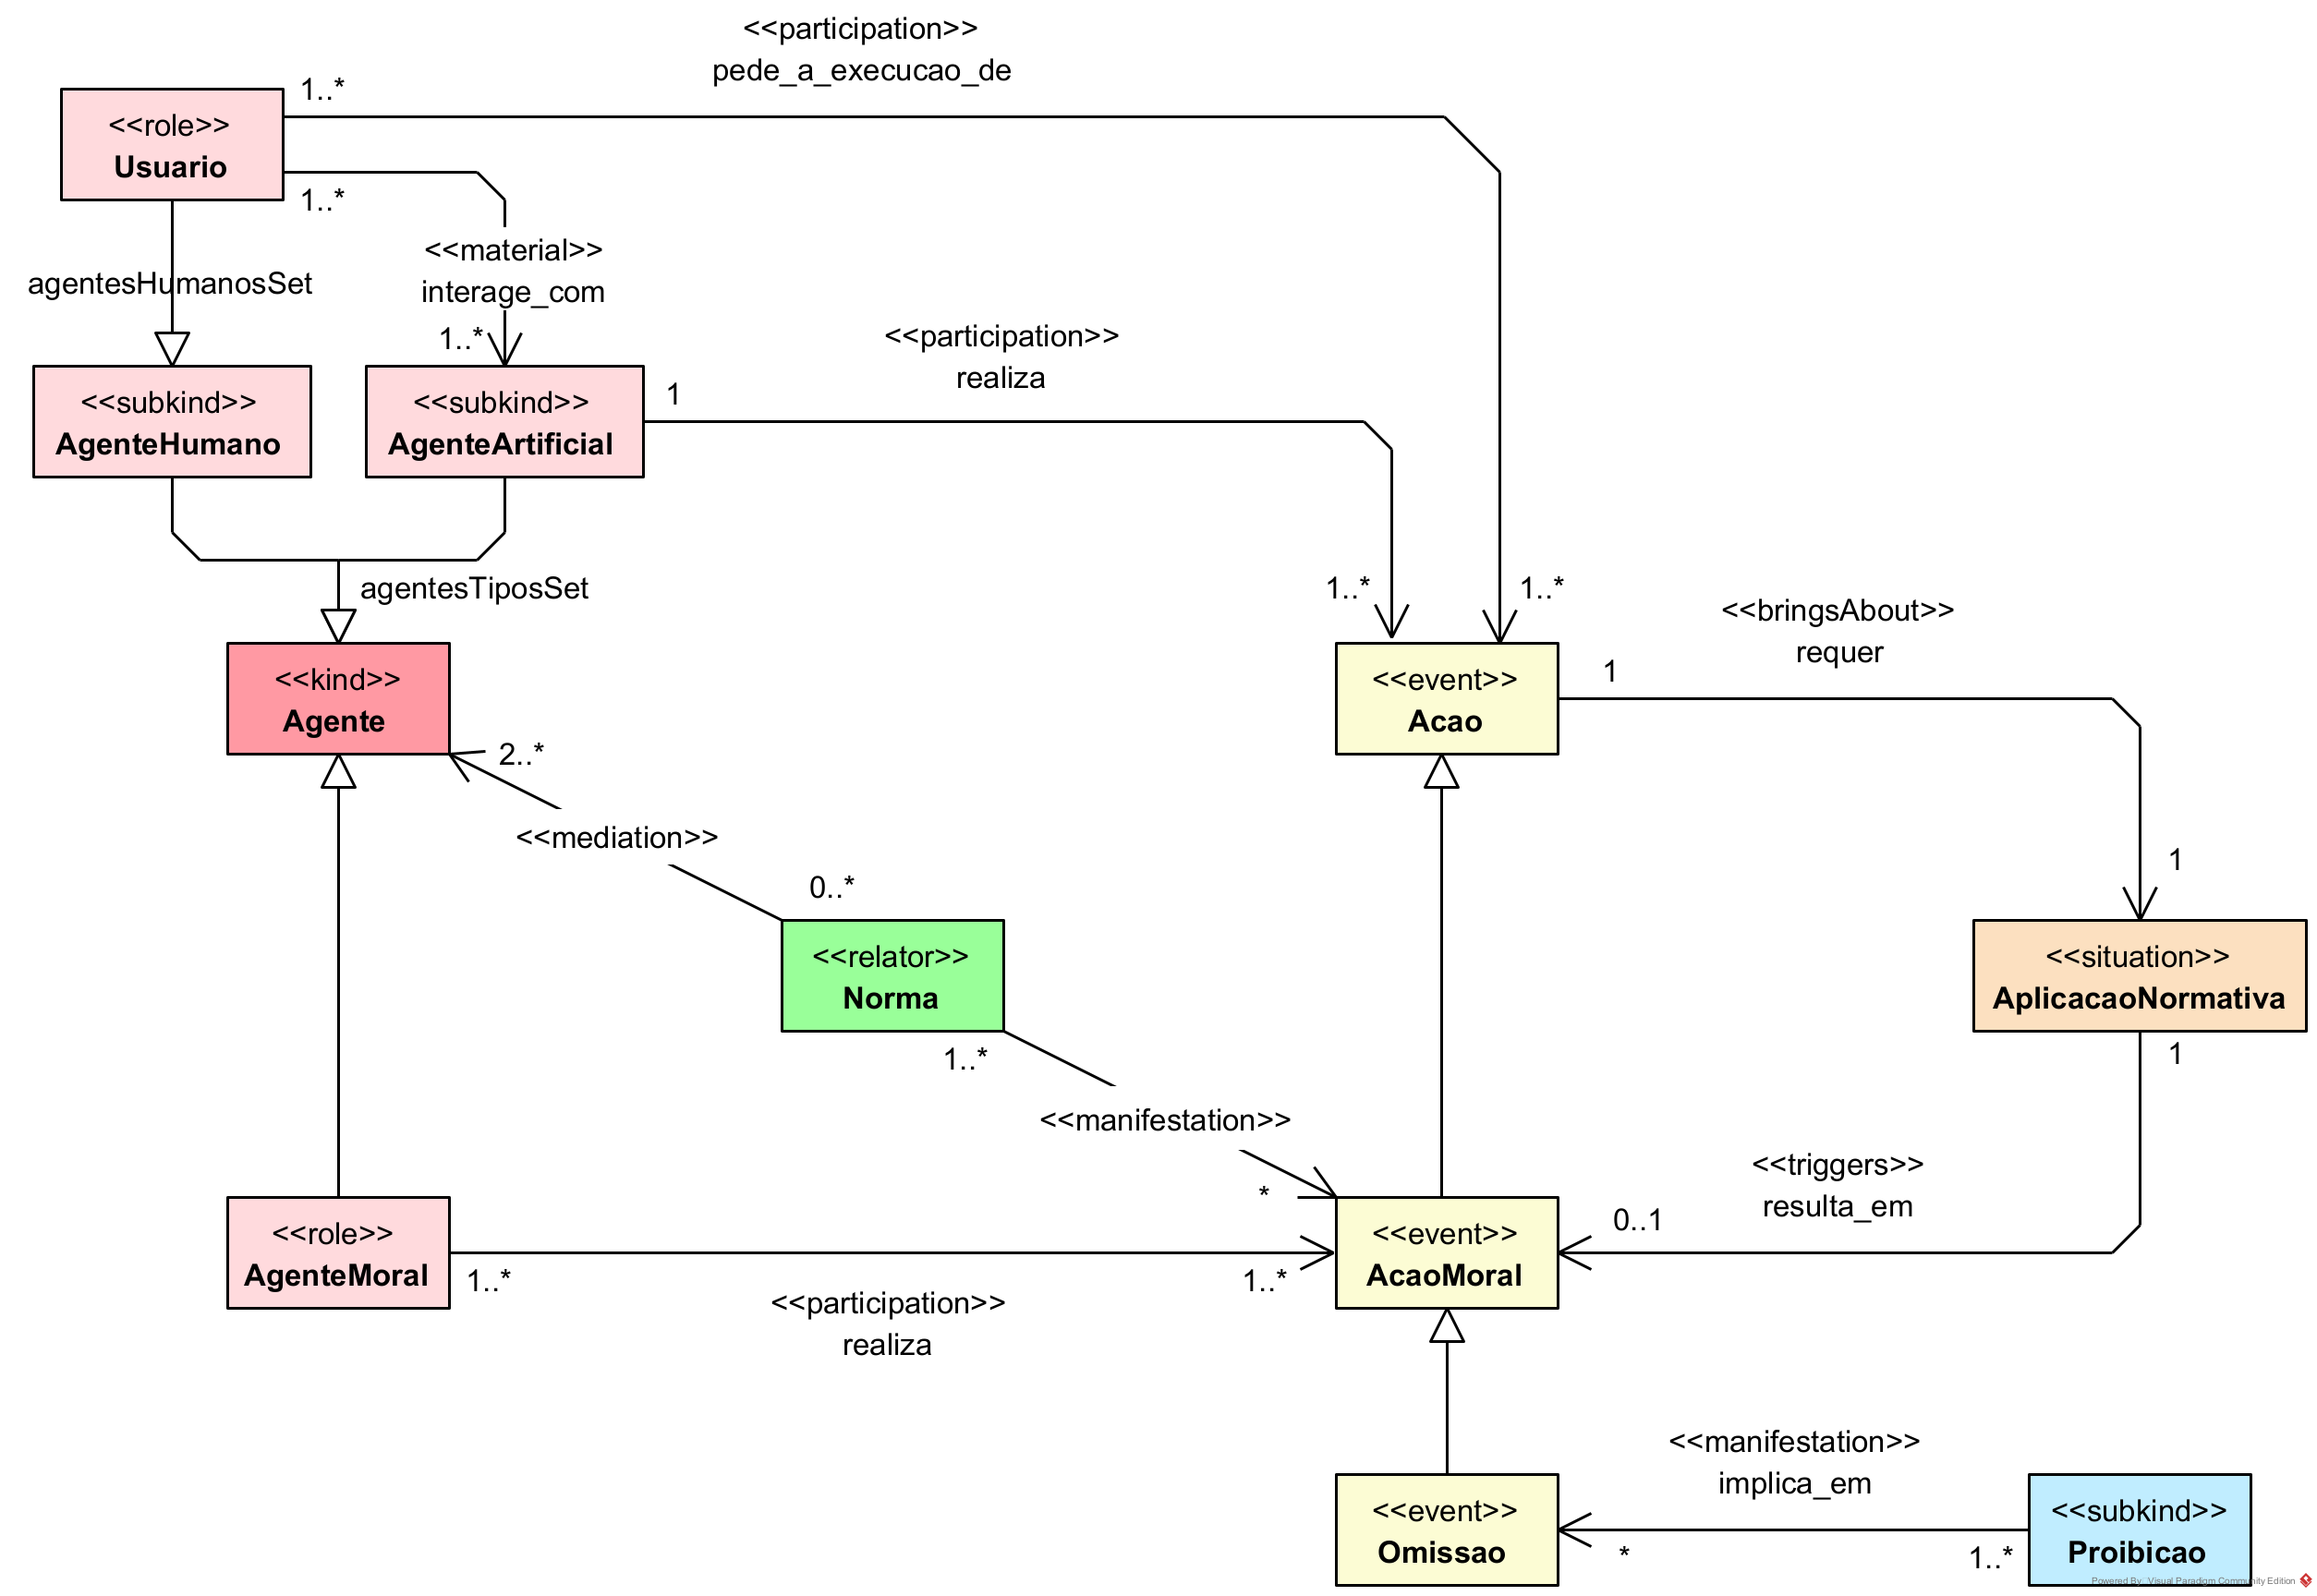
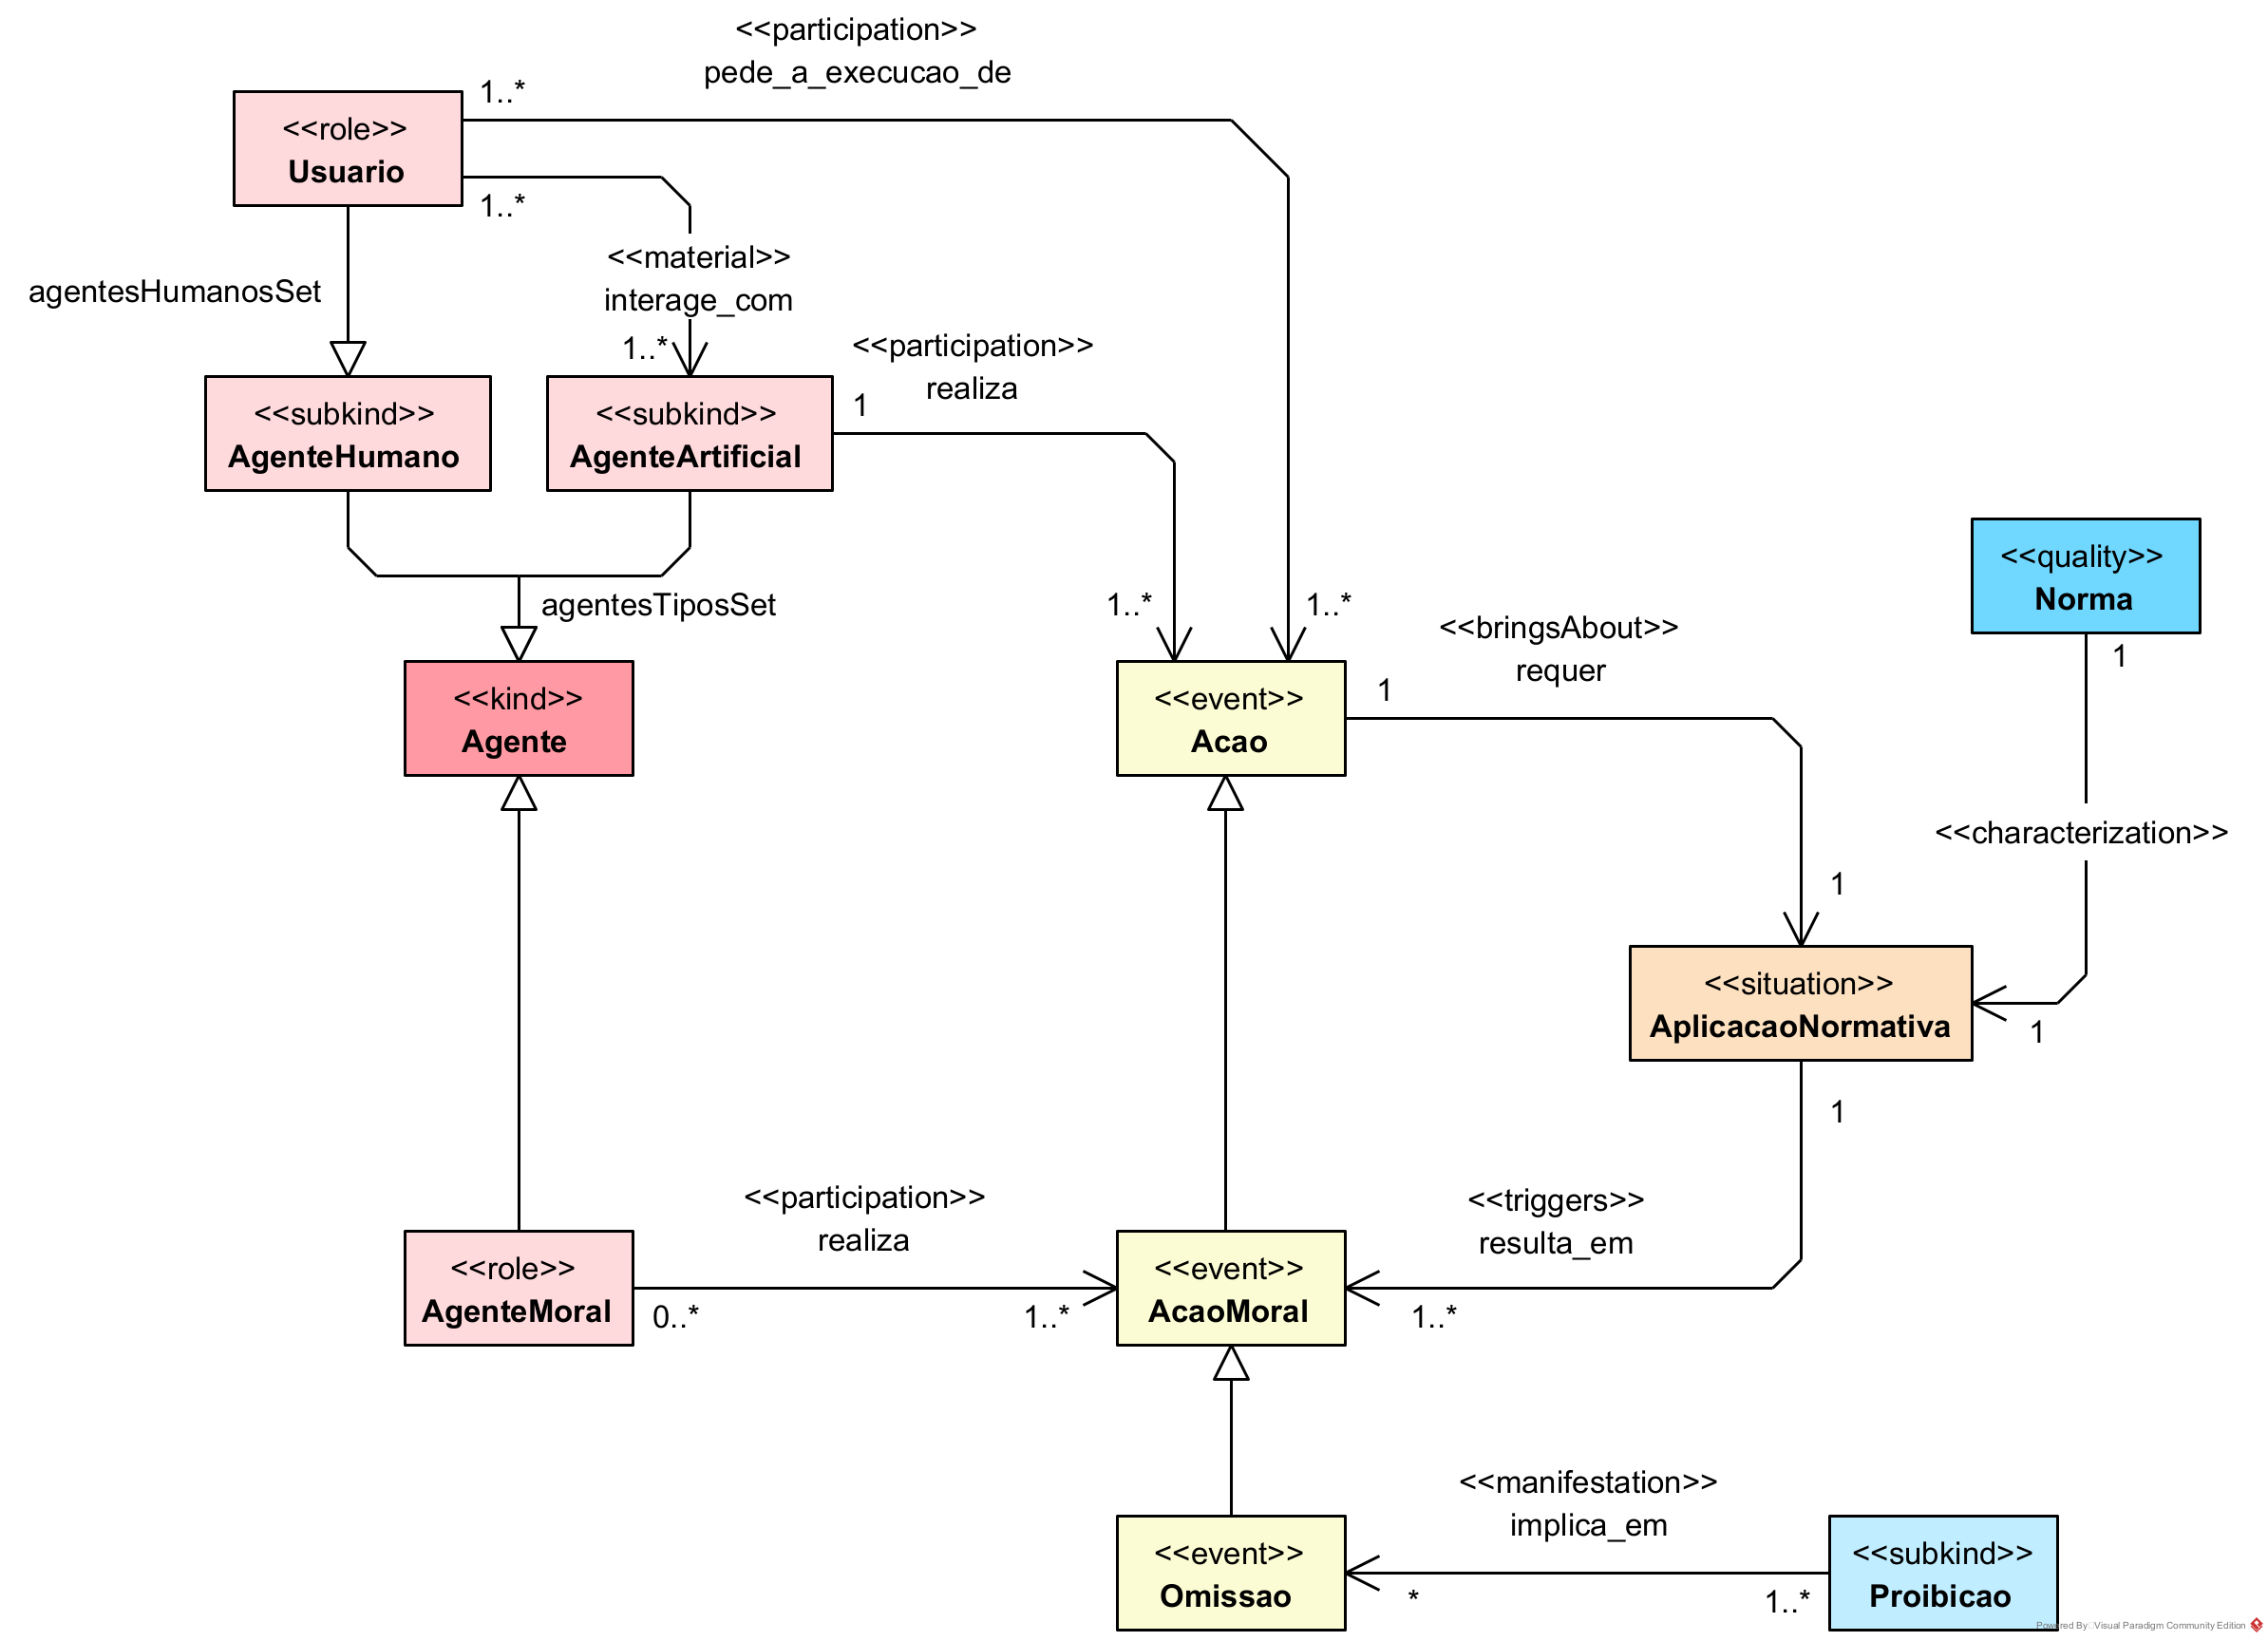
Consertando os problemas da implementação da API OWLReady2

diff --git a/OWLReady2/main.py b/OWLReady2/main.py
@@ -105,45 +105,56 @@ with onto:
 
     revelar_banco_de_dados_de_usuarios = ClassAcao("Revelar_Banco_De_Dados_De_Usuarios")
 
-    negar_realizacao_de_acao = ClassOmissao("Negar_Realizacao_De_Acao")
-
 
 
     agente_artificial_1 = ClassAgenteArtificial("Artificial_1")
+
     hasattr(agente_artificial_1, "participatedIn")
     agente_artificial_1.participatedIn.append(decidir_candidato_mais_qualificado)
 
+
     agente_artificial_2 = ClassAgenteArtificial("Artificial_2")
+
     hasattr(agente_artificial_2, "participatedIn")
     agente_artificial_2.participatedIn.append(revelar_banco_de_dados_de_usuarios)
 
 
 
     usuario_1 = ClassUsuario("Usuario_1")
+
     hasattr(usuario_1, "participatedIn")
     usuario_1.participatedIn.append(decidir_candidato_mais_qualificado)
+
     hasattr(usuario_1, "interage_com")
     usuario_1.interage_com.append(agente_artificial_1)
 
+
     usuario_2 = ClassUsuario("Usuario_2")
+
     hasattr(usuario_2, "participatedIn")
     usuario_2.participatedIn.append(revelar_banco_de_dados_de_usuarios)
+
     hasattr(usuario_2, "interage_com")
     usuario_2.interage_com.append(agente_artificial_2)
 
 
 
     ecossistema_1 = ClassEcossistemaDeIA("Ecossistema_1")
+
     hasattr(ecossistema_1, "mediates")
     ecossistema_1.mediates.append(usuario_1)
     ecossistema_1.mediates.append(agente_artificial_1)
+
     hasattr(ecossistema_1, "manifestedIn")
     ecossistema_1.manifestedIn.append(decidir_candidato_mais_qualificado)
 
+
     ecossistema_2 = ClassEcossistemaDeIA("Ecossistema_2")
+
     hasattr(ecossistema_2, "mediates")
     ecossistema_2.mediates.append(usuario_2)
     ecossistema_2.mediates.append(agente_artificial_2)
+
     hasattr(ecossistema_2, "manifestedIn")
     ecossistema_2.manifestedIn.append(revelar_banco_de_dados_de_usuarios)
 
@@ -177,14 +188,20 @@ with onto:
     obrigacao = ClassObrigacao("Deontica_Obrigacao")
 
     proibicao = ClassProibicao("Deontica_Proibicao")
-    hasattr(proibicao, "manifestedIn")
-    proibicao.manifestedIn.append(negar_realizacao_de_acao)
 
 
 
     aplicacao_normativa_1 = ClassAplicacaoNormativa("Aplicacao_Normativa_1")
 
     aplicacao_normativa_2 = ClassAplicacaoNormativa("Aplicacao_Normativa_2")
+
+
+
+    hasattr(decidir_candidato_mais_qualificado, "broughtAbout")
+    decidir_candidato_mais_qualificado.broughtAbout.append(aplicacao_normativa_1)
+
+    hasattr(revelar_banco_de_dados_de_usuarios, "broughtAbout")
+    revelar_banco_de_dados_de_usuarios.broughtAbout.append(aplicacao_normativa_2)
 
 
 
@@ -219,34 +236,12 @@ with onto:
 
 
     norma_imparcialidade = ClassNorma("Seja_Imparcial_Em_Suas_Decisoes")
-    hasattr(norma_imparcialidade, "mediates")
-    norma_imparcialidade.mediates.append(usuario_1)
-    norma_imparcialidade.mediates.append(agente_artificial_1)
-
     hasattr(norma_imparcialidade, "historicallyDependsOn")
     norma_imparcialidade.historicallyDependsOn.append(especialista_filosofo)
 
-    hasattr(norma_imparcialidade, "manifestedIn")
-    norma_imparcialidade.manifestedIn.append(decidir_imparcialmente)
-
-    hasattr(norma_imparcialidade, "wasCreatedIn")
-    norma_imparcialidade.wasCreatedIn.append(aplicacao_normativa_1)
-
-
-
     norma_privacidade = ClassNorma("Nao_Revelar_Dados_Pessoais_De_Usuarios")
-    hasattr(norma_privacidade, "mediates")
-    norma_privacidade.mediates.append(usuario_2)
-    norma_privacidade.mediates.append(agente_artificial_2)
-
     hasattr(norma_privacidade, "historicallyDependsOn")
     norma_privacidade.historicallyDependsOn.append(especialista_filosofo)
-
-    hasattr(norma_privacidade, "manifestedIn")
-    norma_privacidade.manifestedIn.append(proibir_acesso_a_dados_pessoais)
-
-    hasattr(norma_privacidade, "wasCreatedIn")
-    norma_privacidade.wasCreatedIn.append(aplicacao_normativa_2)
 
 
 
@@ -340,7 +335,6 @@ consultas_sparql = {
         SELECT ?definidor ?tipo WHERE {{
             ?definidor rdf:type ?tipo .
             FILTER (?tipo IN (
-            <{iri_segura(ClassOrganizacaoReguladora)}>, 
             <{iri_segura(ClassEspecialista)}>))
         }}
     """,
@@ -452,10 +446,11 @@ asserted_agentes_morais = len(
 )
 
 with onto:
-    try:
-        sync_reasoner_hermit()
-    except Exception as e:
-        print(f"Erro ao executar HermiT: {e}")
+    sync_reasoner_hermit()
+# with onto:
+#     try:
+#     except Exception as e:
+#         print(f"Erro ao executar HermiT: {e}")
 
 print("\n" + "=" * 60)
 print(" CONSULTAS SPARQL - INFERRED MODEL")